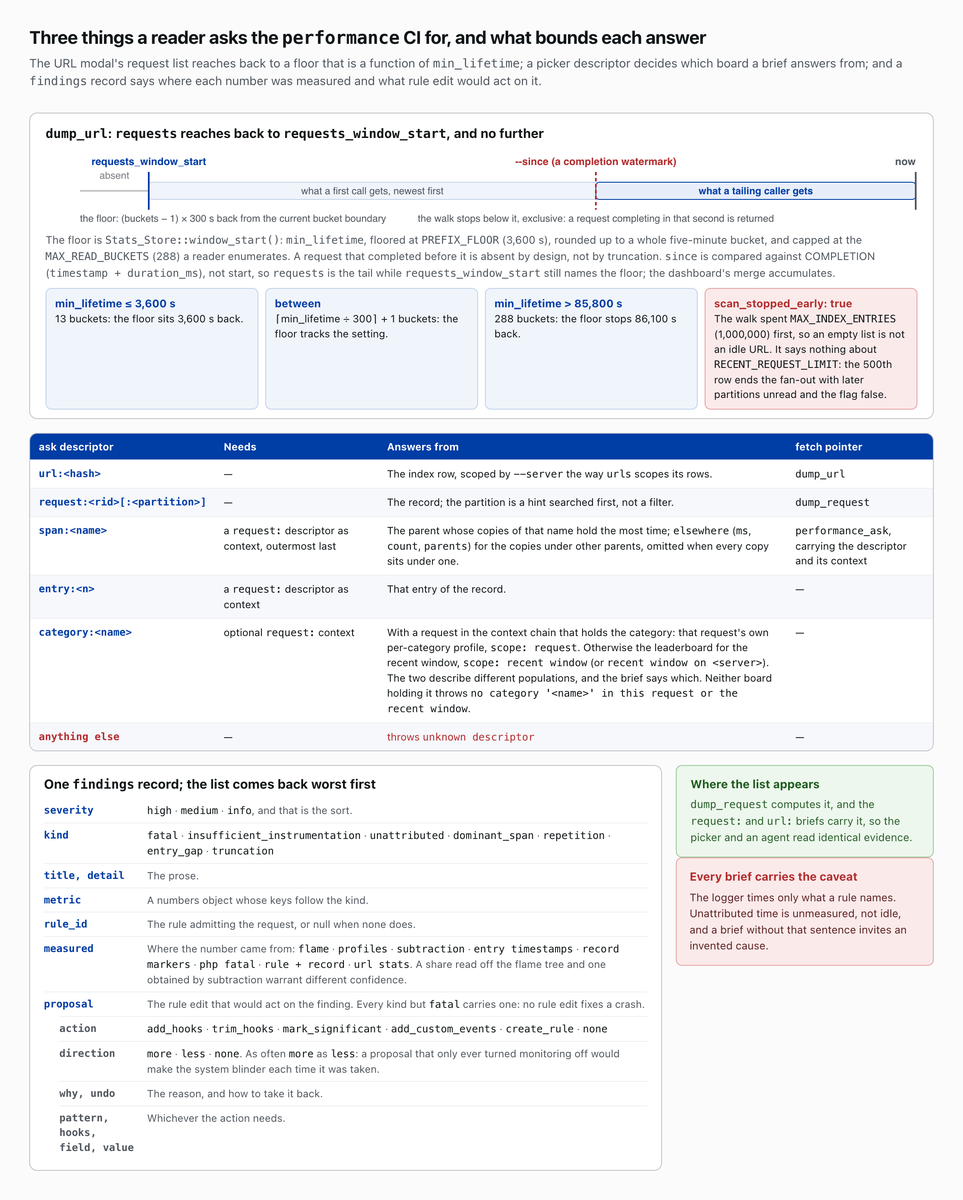
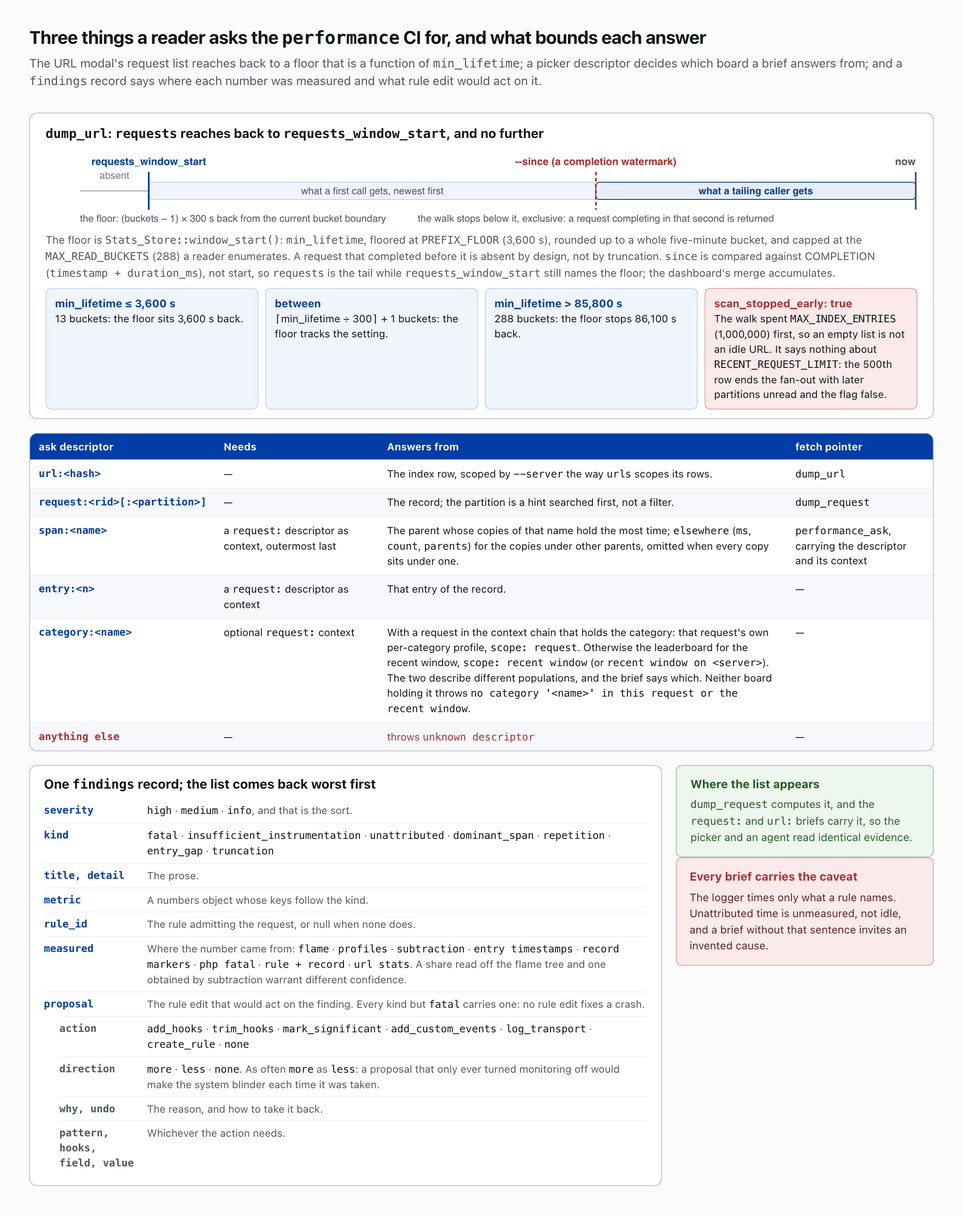
fix(core): the drain outlives the scope; a negative-priority listener is a callback in the builder
Cycle three of the gauntlet. rebind_for_current_scope() unbinds
query_start alone: SAVEQUERIES cannot be withdrawn, so query_end stays
bound once armed and drains for every later scope, which the unbind two
commits ago had undone. Request_Builder_Node reads Flame_Tree's listener
classifier instead of an unsigned copy, so a listener wrapped below zero
nests under its hook rather than being debited from it. The wrapper runs
on nullsafe calls, rebind clears the open span stacks, the findings take
the flag from the row, the CI node's helper reads its own window and sums
inline, the ask sheet lists log_transport, and AGENTS counts eleven keys.

diff --git a/docs/img/api-performance-ask.html b/docs/img/api-performance-ask.html
@@ -81,7 +81,7 @@
       <div class="kv"><span class="k">rule_id</span><span class="v">The rule admitting the request, or null when none does.</span></div>
       <div class="kv"><span class="k">measured</span><span class="v">Where the number came from: <span class="m">flame</span> · <span class="m">profiles</span> · <span class="m">subtraction</span> · <span class="m">entry timestamps</span> · <span class="m">record markers</span> · <span class="m">php fatal</span> · <span class="m">rule + record</span> · <span class="m">url stats</span>. A share read off the flame tree and one obtained by subtraction warrant different confidence.</span></div>
       <div class="kv"><span class="k">proposal</span><span class="v">The rule edit that would act on the finding. Every kind but <span class="m">fatal</span> carries one: no rule edit fixes a crash.</span></div>
-      <div class="kv inner"><span class="k">action</span><span class="v"><span class="m">add_hooks</span> · <span class="m">trim_hooks</span> · <span class="m">mark_significant</span> · <span class="m">add_custom_events</span> · <span class="m">create_rule</span> · <span class="m">none</span></span></div>
+      <div class="kv inner"><span class="k">action</span><span class="v"><span class="m">add_hooks</span> · <span class="m">trim_hooks</span> · <span class="m">mark_significant</span> · <span class="m">add_custom_events</span> · <span class="m">log_transport</span> · <span class="m">create_rule</span> · <span class="m">none</span></span></div>
       <div class="kv inner"><span class="k">direction</span><span class="v"><span class="m">more</span> · <span class="m">less</span> · <span class="m">none</span>. As often <span class="m">more</span> as <span class="m">less</span>: a proposal that only ever turned monitoring off would make the system blinder each time it was taken.</span></div>
       <div class="kv inner"><span class="k">why, undo</span><span class="v">The reason, and how to take it back.</span></div>
       <div class="kv inner"><span class="k">pattern, hooks, field, value</span><span class="v">Whichever the action needs.</span></div>

diff --git a/includes/app/class-performance-ci-node.php b/includes/app/class-performance-ci-node.php
@@ -338,9 +338,8 @@ class Performance_CI_Node extends Service_CI_Node {
 	 */
 	private static function merge_dim_across_partitions( string $dimension, string $server ): array {
 		$store_server = 'server' === $dimension ? '' : $server;
-		$buckets      = self::read_window();
 		return self::merged_across_stores(
-			static fn ( Stats_Store $store ): array => $store->get_dimensional_buckets( $dimension, $buckets, $store_server ),
+			static fn ( Stats_Store $store, array $buckets ): array => $store->get_dimensional_buckets( $dimension, $buckets, $store_server ),
 			Stats_Store::DIM_SUMS,
 			Stats_Store::DIM_COUNT
 		);
@@ -354,9 +353,8 @@ class Performance_CI_Node extends Service_CI_Node {
 	 * @return array<string,mixed>
 	 */
 	private static function merge_categories_across_partitions( string $server = '' ): array {
-		$buckets = self::read_window();
 		return self::merged_across_stores(
-			static fn ( Stats_Store $store ): array => $store->get_category_buckets( $buckets, $server ),
+			static fn ( Stats_Store $store, array $buckets ): array => $store->get_category_buckets( $buckets, $server ),
 			Stats_Store::CAT_SUMS,
 			Stats_Store::CAT_REQUESTS
 		);
@@ -369,9 +367,8 @@ class Performance_CI_Node extends Service_CI_Node {
 	 * @return array<string,mixed>
 	 */
 	private static function merge_url_categories( string $hash ): array {
-		$buckets = self::read_window();
 		return self::merged_across_stores(
-			static fn ( Stats_Store $store ): array => $store->get_url_category_buckets( $hash, $buckets ),
+			static fn ( Stats_Store $store, array $buckets ): array => $store->get_url_category_buckets( $hash, $buckets ),
 			Stats_Store::CAT_SUMS,
 			Stats_Store::CAT_REQUESTS
 		);
@@ -990,9 +987,8 @@ class Performance_CI_Node extends Service_CI_Node {
 	 * @return array<array-key,mixed> Bucket keys derive from decoded memcache blobs.
 	 */
 	private static function merge_url_dim( string $hash, string $dimension ): array {
-		$buckets = self::read_window();
 		return self::merged_across_stores(
-			static function ( Stats_Store $store ) use ( $hash, $buckets, $dimension ): array {
+			static function ( Stats_Store $store, array $buckets ) use ( $hash, $dimension ): array {
 				// Bucket-major: pull the dimension asked for.
 				$series = [];
 				foreach ( $store->get_url_dimensional_buckets( $hash, $buckets ) as $bucket_key => $dims ) {
@@ -1013,41 +1009,24 @@ class Performance_CI_Node extends Service_CI_Node {
 	 * rows summed into the buckets under one field table, the values nothing
 	 * measured dropped once at the end, and the buckets sorted.
 	 *
-	 * @param callable(Stats_Store): array<string,mixed> $rows_of     A store's rows for the series.
-	 * @param array<int|string,bool>                     $fields      Field table for the sum.
-	 * @param int                                        $count_field The entry index a value's request count sits at.
+	 * @param callable(Stats_Store, array<int,string>): array<string,mixed> $rows_of     A store's rows for the series, over the read window.
+	 * @param array<int|string,bool>                                        $fields      Field table for the sum.
+	 * @param int                                                           $count_field The entry index a value's request count sits at.
 	 * @return array<string,array<array-key,mixed>> Bucket key => value name => summed entry.
 	 */
 	private static function merged_across_stores( callable $rows_of, array $fields, int $count_field ): array {
-		$merged = [];
+		$merged  = [];
+		$buckets = self::read_window();
 		foreach ( self::stats_stores() as $store ) {
-			self::merge_buckets_into( $merged, $rows_of( $store ), $fields );
+			foreach ( $rows_of( $store, $buckets ) as $bucket => $values ) {
+				$merged[ $bucket ] = Stats_Store::sum_fields( Core::arr( $merged[ $bucket ] ?? null ), Core::arr( $values ), $fields );
+			}
 		}
 		foreach ( $merged as $bucket => $values ) {
 			$merged[ $bucket ] = Stats_Store::measured( Core::arr( $values ), $count_field );
 		}
 		\ksort( $merged );
 		return $merged;
-	}
-
-	/**
-	 * Sum-merge one namespace's buckets into the running totals, through the
-	 * SAME arithmetic and the same field table the writer used.
-	 *
-	 * Hand-rolled per namespace, a reader reaches for `Core::as_*`, the
-	 * permissive family that casts any scalar, against values the writer stored
-	 * through the refusing `num_*` family — and counts `CAT_CALLS` as a float
-	 * where `CAT_SUMS` calls it whole. One producer, one reader, one table.
-	 *
-	 * @param array<string,mixed>   $merged Mutated.
-	 * @param array<string,mixed>   $rows   Inbound, keyed by bucket.
-	 * @param array<array-key,bool> $fields Field key => is a whole count; an
-	 *                                      index for `DIM_SUMS` and `CAT_SUMS` alike.
-	 */
-	private static function merge_buckets_into( array &$merged, array $rows, array $fields ): void {
-		foreach ( $rows as $bucket => $values ) {
-			$merged[ $bucket ] = Stats_Store::sum_fields( Core::arr( $merged[ $bucket ] ?? null ), Core::arr( $values ), $fields );
-		}
 	}
 
 	/**

diff --git a/includes/app/class-core.php b/includes/app/class-core.php
@@ -359,10 +359,12 @@ class Core {
 	 * a job context switch changes which rule governs mid-request
 	 * (begin_job_context / end_job_context).
 	 *
-	 * Only this class's own filters come off — the per-hook trio and the HTTP
-	 * pair. Callback wrappers already installed by wrap_callbacks() stay in
-	 * $wp_filter and keep timing, and wrapper_ids keeps remembering them, so
-	 * the new scope can't double-wrap.
+	 * Only this class's own filters come off — the per-hook trio, the HTTP
+	 * pair and `query_start`. `query_end` stays bound once armed: SAVEQUERIES
+	 * outlives every scope, so the drain must too, and with no span open it
+	 * closes nothing. Callback wrappers already installed by wrap_callbacks()
+	 * stay in $wp_filter and keep timing, and wrapper_ids keeps remembering
+	 * them, so the new scope can't double-wrap.
 	 */
 	public function rebind_for_current_scope(): void {
 		foreach ( $this->bound_hooks as $hook_name ) {
@@ -374,10 +376,11 @@ class Core {
 		\remove_filter( self::HTTP_HOOK, [ $this, 'http_wrap' ], PHP_INT_MIN );
 		\remove_action( 'http_api_debug', [ $this, 'http_end' ], PHP_INT_MIN );
 		\remove_filter( self::QUERY_HOOK, [ $this, 'query_start' ], $this->start_priority );
-		\remove_filter( 'log_query_custom_data', [ $this, 'query_end' ], PHP_INT_MIN );
 		$this->bound_hooks = [];
 		$this->significant = [];
 		$this->traced      = [];
+		$this->http_spans  = [];
+		$this->query_spans = [];
 		$this->bind_current_scope();
 	}
 
@@ -644,16 +647,13 @@ class Core {
 				$label   = Flame_Tree::listener_name( self::short_name( $original ), $priority );
 				$wrapper = function () use ( $original, $accepted_args, $label ) {
 					$args = \array_slice( \func_get_args(), 0, $accepted_args );
-					// Outlives its request: nowhere to log, call through.
+					// No logger started: only the call.
 					$lm = Log_Manager::started_instance();
-					if ( null === $lm ) {
-						return \call_user_func_array( $original, $args );
-					}
-					$lm->start( $label, [ 'l' => '' ] );
+					$lm?->start( $label, [ 'l' => '' ] );
 					try {
 						$result = \call_user_func_array( $original, $args );
 					} finally {
-						$lm->complete( $label );
+						$lm?->complete( $label );
 					}
 					return $result;
 				};
@@ -983,9 +983,9 @@ class Core {
 	/**
 	 * Close the hook's timing span. Registered at PHP_INT_MAX - 1.
 	 *
-	 * Needs no is_started() check, unlike hook_start: Log_Manager::complete()
-	 * no-ops when no span under this label is open.
-	 *
+	 * Asks for a started logger like every callback: a binding that outlived
+	 * its request must not construct one (decision 20), and complete() has
+	 * nothing to close when no span under this label is open.
 	 * @param mixed $v Filter value (passed through).
 	 * @return mixed
 	 */

diff --git a/tests/unit/RequestBuilderTest.php b/tests/unit/RequestBuilderTest.php
@@ -721,6 +721,22 @@ class RequestBuilderTest extends TestCase {
 		$this->assertEqualsWithDelta( 6.25, $req['profiles']['inner']['time'], 1e-9 );
 	}
 
+	/** A listener wrapped below zero is a callback too; its time is the hook's, not a debit from it. */
+	public function test_a_negative_priority_callback_does_not_subtract_from_parent_hook(): void {
+		$rb      = new Request_Builder_Node();
+		$capture = new Capture_Sink_Node();
+		$rb->sink( $capture );
+		$this->fill( $rb, 1, 'r1', 'process (start)' );
+		$this->fill( $rb, 2, 'r1', 'request', [ 'm' => 'GET /x' ] );
+		$this->fill( $rb, 3, 'r1', 'the_content hook (start)' );
+		$this->fill( $rb, 4, 'r1', 'the_content @-5 (start)', [ 'l' => '' ] );
+		$this->fill( $rb, 5, 'r1', 'the_content @-5 (complete)', [ 'duration_ms' => 5.0 ] );
+		$this->fill( $rb, 6, 'r1', 'the_content hook (complete)', [ 'duration_ms' => 20.0 ] );
+		$this->fill( $rb, 7, 'r1', 'process (complete)' );
+		$req = $this->captured_request( $capture );
+		$this->assertSame( 20.0, $req['profiles']['the_content hook']['time'] );
+	}
+
 	public function test_callback_completion_does_not_subtract_from_parent_hook(): void {
 		// Callback frames (' @N') represent breakdowns of their parent hook's
 		// time. So complete-of-callback must not subtract from the parent hook.

diff --git a/includes/class-request-builder-node.php b/includes/class-request-builder-node.php
@@ -816,7 +816,7 @@ class Request_Builder_Node extends Timer_Node {
 		}
 
 		// Subtract child time from ancestors; callbacks (" @N") don't subtract.
-		if ( ! empty( $stack ) && ! self::is_callback_state( $state ) ) {
+		if ( ! empty( $stack ) && ! Flame_Tree::is_listener_span( $state ) ) {
 			for ( $j = \count( $stack ) - 1; $j >= 0; $j-- ) {
 				$ancestor_frame = $stack[ $j ];
 				$ancestor       = $ancestor_frame[0];
@@ -831,7 +831,7 @@ class Request_Builder_Node extends Timer_Node {
 						$profiles[ $ancestor ]['entries'][ $ancestor_label ][0] -= $time;
 					}
 					// Subtract up to first non-callback ancestor, then stop.
-					if ( ! self::is_callback_state( $ancestor ) ) {
+					if ( ! Flame_Tree::is_listener_span( $ancestor ) ) {
 						break;
 					}
 				}
@@ -854,17 +854,6 @@ class Request_Builder_Node extends Timer_Node {
 		if ( ! \is_array( $request->profiles ?? null ) ) {
 			$request->profiles = [];
 		}
-	}
-
-	/**
-	 * Check if a state label is a callback (ends with " @N").
-	 *
-	 * @param string $state State label.
-	 * @return bool True if callback state.
-	 */
-	private static function is_callback_state( string $state ): bool {
-		$at_pos = \strrpos( $state, ' @' );
-		return false !== $at_pos && \ctype_digit( \substr( $state, $at_pos + 2 ) );
 	}
 
 	/**

diff --git a/includes/app/class-findings.php b/includes/app/class-findings.php
@@ -569,7 +569,7 @@ class Findings {
 		// The bare hook, which is what a rule binds and what every row names.
 		$named = Flame_Tree::hook_name( $base );
 		// A transport row binds the flag that logs the span, not the span.
-		$flag = isset( Hooks::TRANSPORT_HOOKS[ $base ] ) ? Rule::transport_flag( $base ) : '';
+		$flag = 'transport' === ( $advice['field'] ?? '' ) ? Rule::transport_flag( $base ) : '';
 		$out  = [
 			'action'    => $advice['action'] ?? 'none',
 			'direction' => $advice['direction'] ?? 'none',
@@ -577,9 +577,12 @@ class Findings {
 			'why'       => \sprintf( $advice['why'], $named, Hooks::TRANSPORT_HOOKS[ $base ] ?? '', $flag ),
 			'undo'      => $binds ? ( $advice['undo'] ?? $undo ) : '',
 		];
-		if ( $binds ) {
-			$out['field'] = 'transport' === $advice['field'] ? $flag : $advice['field'];
-			$out['value'] = 'transport' === $advice['field'] ? $flag : $named;
+		if ( '' !== $flag ) {
+			$out['field'] = $flag;
+			$out['value'] = $flag;
+		} elseif ( $binds ) {
+			$out['field'] = $advice['field'];
+			$out['value'] = $named;
 		}
 		return $out;
 	}

diff --git a/tests/unit/AppCoreTest.php b/tests/unit/AppCoreTest.php
@@ -2149,7 +2149,8 @@ class AppCoreTest extends TestCase {
 		$core->rebind_for_current_scope();
 
 		$this->assertFalse( $this->is_registered( 'query', [ $core, 'query_start' ] ) );
-		$this->assertFalse( $this->is_registered( 'log_query_custom_data', [ $core, 'query_end' ] ) );
+		// SAVEQUERIES outlives the scope, so the drain stays bound.
+		$this->assertTrue( $this->is_registered( 'log_query_custom_data', [ $core, 'query_end' ] ) );
 	}
 
 	/** SAVEQUERIES outlives the logger; the drain must not wait for one. */

diff --git a/AGENTS.md b/AGENTS.md
@@ -188,9 +188,9 @@ Each is intentional, stated in full in [`docs/architecture-decisions.md`](docs/a
 | Path | What |
 |------|------|
 | `newspack-event-logger-nodes.php` | Entry; deferred loader gated on `class_exists('\Newspack_Nodes\Bootstrap')` AND `Bootstrap::version_at_least( '2.60.0', …)`. `Topology_Registry::register_plugin()` registers the top-level `Newspack_Event_Logger_Nodes\` prefix for node-class resolution plus the stock-topology dir; `register_namespace` registers only the `App\` service-CI sub-namespace; service CIs mount on `request_graph_ready`. It also registers the `<eln:>` TSL token namespace — three keys, `is_hub`, `stats_mirror_node` and `stats_mirror_lifetime`, the last DERIVED as twice `Config::stats_retention_seconds()` — and three named formatters, because TSL has no closures: `request-index`, `flame-index` and `stats-index`. The admin menu and its five dashboard enqueues register at file scope behind their own `class_exists` guard, and so do six substrate-only hooks, which need none because the action cannot fire without the substrate: `newspack_nodes/declare_config_keys` (which the substrate PULLS, so it names the action as a literal), `registered_log_producers` (this plugin's firehose dir template, which the log GC and the Workers dashboard read), the `before_reconcile` / `after_reconcile` pair giving the minute-cadence reconciliation its own `/jobs/newspack-nodes` request context, `stderr` (the `Diagnostics_Bridge` listener) and `request_graph_ready` |
-| `includes/class-settings-schema.php` | The single declarative Field/Schema source, one `Field` per setting, from which Config overlay keys, the admin register/render loop and worker-restart classification all derive. Every one of the nine application keys is declared here WITH its default: three rendered checkboxes (`enable_logging`, `log_memory`, `flush_every_line`) and six overlay-only `ui: false` keys (`rules`, `hook_start_priority`, `custom_colors`, `stats_mirror_node`, `stats_mirror_read_budget_ms`, `recommended_log_events`). `allowed_users` is the substrate's key, not this plugin's: the admin surface gates on `\Newspack_Nodes\Capabilities::can( MANAGE )`, which applies that list itself. URL filters, hook lists and auto-tune thresholds are per-rule fields of the `rules` ruleset, which the React editor owns through the `rules` service CI — never the Settings API |
+| `includes/class-settings-schema.php` | The single declarative Field/Schema source, one `Field` per setting, from which Config overlay keys, the admin register/render loop and worker-restart classification all derive. Every one of the eleven application keys is declared here WITH its default: three rendered checkboxes (`enable_logging`, `log_memory`, `flush_every_line`) and eight overlay-only `ui: false` keys (`rules`, `hook_start_priority`, `custom_colors`, `stats_mirror_node`, `stats_mirror_read_budget_ms`, `stats_mirror_segment_size`, `stats_mirror_num_segments`, `recommended_log_events`). `allowed_users` is the substrate's key, not this plugin's: the admin surface gates on `\Newspack_Nodes\Capabilities::can( MANAGE )`, which applies that list itself. URL filters, hook lists and auto-tune thresholds are per-rule fields of the `rules` ruleset, which the React editor owns through the `rules` service CI — never the Settings API |
 | `includes/class-{rule,rule-set,rule-matcher}.php` | The per-URL ruleset. `Rule` is an immutable value object whose id is the pattern's `url_hash`; `Rule_Set` handles durable load/save plus two-tier hook storage — inline in the autoloaded list up to `INLINE_HOOK_LIMIT`=100, else a per-rule non-autoloaded option mirrored into the substrate's `Table` (a memoized `Table_Node::table( TABLE_HOOKS, TABLE_TTL )`, whose `store()` / `lookup()` scope keys per install; the accessor is nullable, and a host with no cache backend simply has no warm mirror); `Rule_Matcher` ranks query-bearing patterns above exact patterns above prefixes, with length breaking ties only WITHIN a rank, case-insensitively, and no match meaning skip. `Log_Manager` resolves the governing rule per request through it |
-| `newspack-event-logger-nodes-config.php` | Deployment OVERRIDES, not the definition: a commented ledger returning `[]`, each of the nine keys commented out beside the default `Settings_Schema` declares. Four layers, weakest first: the schema default, this file, the file named by `LOCAL_NEWSPACK_NODES_CONF`, and a stored `newspack_event_logger_nodes_<key>` option — PRESENCE decides the option layer, not truthiness, so a stored `''`, `[]` or `false` beats both files. A key here the schema does not declare is reported to stderr and ignored, never registered and never thrown — a deploy copies the operator's own copy over this path, and throwing at `plugins_loaded:-10001` would take wp-admin down with it. `ConfigSchemaTest` parses the commented entries back into an array and holds them to `Settings_Schema::get()->defaults()`, so a default changed in one file alone fails the suite. The active `.tsl` list is the substrate's `topologies` key, and remote-pull segment geometry its `newspack_nodes_*` config; neither lives here |
+| `newspack-event-logger-nodes-config.php` | Deployment OVERRIDES, not the definition: a commented ledger returning `[]`, each of the eleven keys commented out beside the default `Settings_Schema` declares. Four layers, weakest first: the schema default, this file, the file named by `LOCAL_NEWSPACK_NODES_CONF`, and a stored `newspack_event_logger_nodes_<key>` option — PRESENCE decides the option layer, not truthiness, so a stored `''`, `[]` or `false` beats both files. A key here the schema does not declare is reported to stderr and ignored, never registered and never thrown — a deploy copies the operator's own copy over this path, and throwing at `plugins_loaded:-10001` would take wp-admin down with it. `ConfigSchemaTest` parses the commented entries back into an array and holds them to `Settings_Schema::get()->defaults()`, so a default changed in one file alone fails the suite. The active `.tsl` list is the substrate's `topologies` key, and remote-pull segment geometry its `newspack_nodes_*` config; neither lives here |
 | `includes/class-config.php` | Application config loader; substrate keys live in `newspack-nodes` |
 | `includes/class-log-manager.php` | Per-request firehose writer; redacts URL secrets; refuses root |
 | `includes/class-diagnostics-bridge.php` | `Diagnostics_Bridge` — carries the substrate's `newspack_nodes/stderr` seam into the active request or job log as a `stderr` entry, feeding the Error Log. Fleet alerts do not pass through here; the substrate journals those into `alerts.p0` |

diff --git a/docs/architecture-decisions.md b/docs/architecture-decisions.md
@@ -340,6 +340,8 @@ The statement is recorded data, so it leaves through [decision 25](#decision-25-
 
 *Alternatives rejected:* keeping ONE representative statement, the slowest instance's (costs no table, and answers "was it one query or thirty?" with a guess); a digest at the producer, in `App\Core::query_end` (the producer cannot know the record will fold, and a per-request digest would ride the firehose against `MAX_DATA_SIZE` on every request that never folds); the table on the per-URL aggregate (cardinality across thousands of requests is unbounded, and the aggregate's numbers are per-request means, which a summed pair is not — `merge_flame_children_incremental()` rebuilds each node from four keys, so it cannot leak there by accident). **Revisit if** a THIRD span kind earns a table, which would make "is it transport?" the wrong question and a producer-set marker on the entry the right one — `Log_Manager::message()` already merges arbitrary keys, and `Request_Builder_Node` already allowlists such fields beside `keep`. The sibling producers are the reason it would come up: pyrobase's `customquery_sql` and gyrobase's `query_sql`, `search_query` and `<tag> (sql)` spans all carry an already-shaped statement, and none of them is named `sql`.
 
+---
+
 ## Decision 27: The platform's requests to itself are worker traffic, named by path
 
 The cron loopback and the substrate's own endpoints — `/wp-json/newspack-nodes/v1/{command,log/stream,messages/stream,workers/spawn}` — are requests the platform makes to itself, and until 0.101.0 the shipped seed skipped every one, so the logger never logged the logger. A skip loses the record: a `command` poll that took nine seconds, or a spawn that fataled, left nothing to read. So the seed is the `/` log rule alone, and [`Log_Manager::PLATFORM_WORKERS`](../includes/class-log-manager.php) names each of those requests a worker by its path — `cron`, `command`, `stream`, `spawn` — as the `worker_type` entry `log_worker()` writes right after `process (start)`. The substrate's own processes name themselves through `NEWSPACK_NODES_WORKER_TYPE`, and that wins where it is set; the path answers where it is not, which for the spawn endpoint is always, since the substrate sets the var at REST dispatch, after the request was opened. A worker's record keeps every entry, sits on the worker shard's URL rows, and stays out of the global sums at [decision 24](#decision-24-a-duration-nobody-measured-is-not-a-timing-sample)'s `$count_global` gate.

diff --git a/CHANGELOG.md b/CHANGELOG.md
@@ -8,13 +8,16 @@ and this project adheres to [Semantic Versioning](https://semver.org/spec/v2.0.0
 ## [Unreleased]
 
 ### Fixed
-- **A scope change unbinds the query pair.** `rebind_for_current_scope()`
-  removed the per-hook trio and the HTTP pair and left `query_start` and
-  `query_end` bound, so a job whose rule never asked for query logging
-  inherited `sql` spans from the job before it.
-- **`query_end()` drains `$wpdb->queries` whether or not a logger is
-  started.** `SAVEQUERIES` outlives the logger in a worker, and the drain
-  sat behind the return that a missing logger took.
+- **A scope change unbinds `query_start`.** `rebind_for_current_scope()`
+  removed the per-hook trio and the HTTP pair and left the query span open
+  for the next scope, so a job whose rule never asked for query logging
+  inherited `sql` spans from the job before it. `query_end` stays bound
+  once armed and drains `$wpdb->queries` whether or not a logger is
+  started, because `SAVEQUERIES` outlives every scope and the drain sat
+  behind the return a missing logger took.
+- **A listener at a negative priority is a callback in the request builder
+  too**, nested under its hook rather than debited from it, the sign the
+  span pattern already carried.
 - **A transport the rule does not log proposes the flag.** The findings' row
   for that state now carries a `log_transport` proposal whose field is
   `log_queries` or `log_http`, so the dashboards render it; a row without an
@@ -27,15 +30,12 @@ and this project adheres to [Semantic Versioning](https://semver.org/spec/v2.0.0
   constructing the logger inside the callback.
 - **A dimensional value nothing measured is dropped on the read as well as
   the write.** `Stats_Store::measured()` serves `Performance_CI_Node`'s merges
-  and the flame builder's caps alike, so a frame in the pre-positional shape
-  never charts as a flat zero line before the flush ages it out.
+  and the flame builder's caps alike: a zero count is a slot with nothing in
+  it, and it is no chart row on either side.
 - **`Flame_Tree` owns the listener span's name**: `listener_name()` mints it
   and `is_listener_span()` reads it, beside the other span classifiers, and
   the dashboard's callback rows accept a negative priority as the PHP side
   does.
-- **A transport the rule does not log gets one answer**: the findings name the
-  `log_queries` or `log_http` that comes first, rather than proposing a mark
-  the binder would ignore.
 
 ## [0.101.0] - 2026-09-21
 
